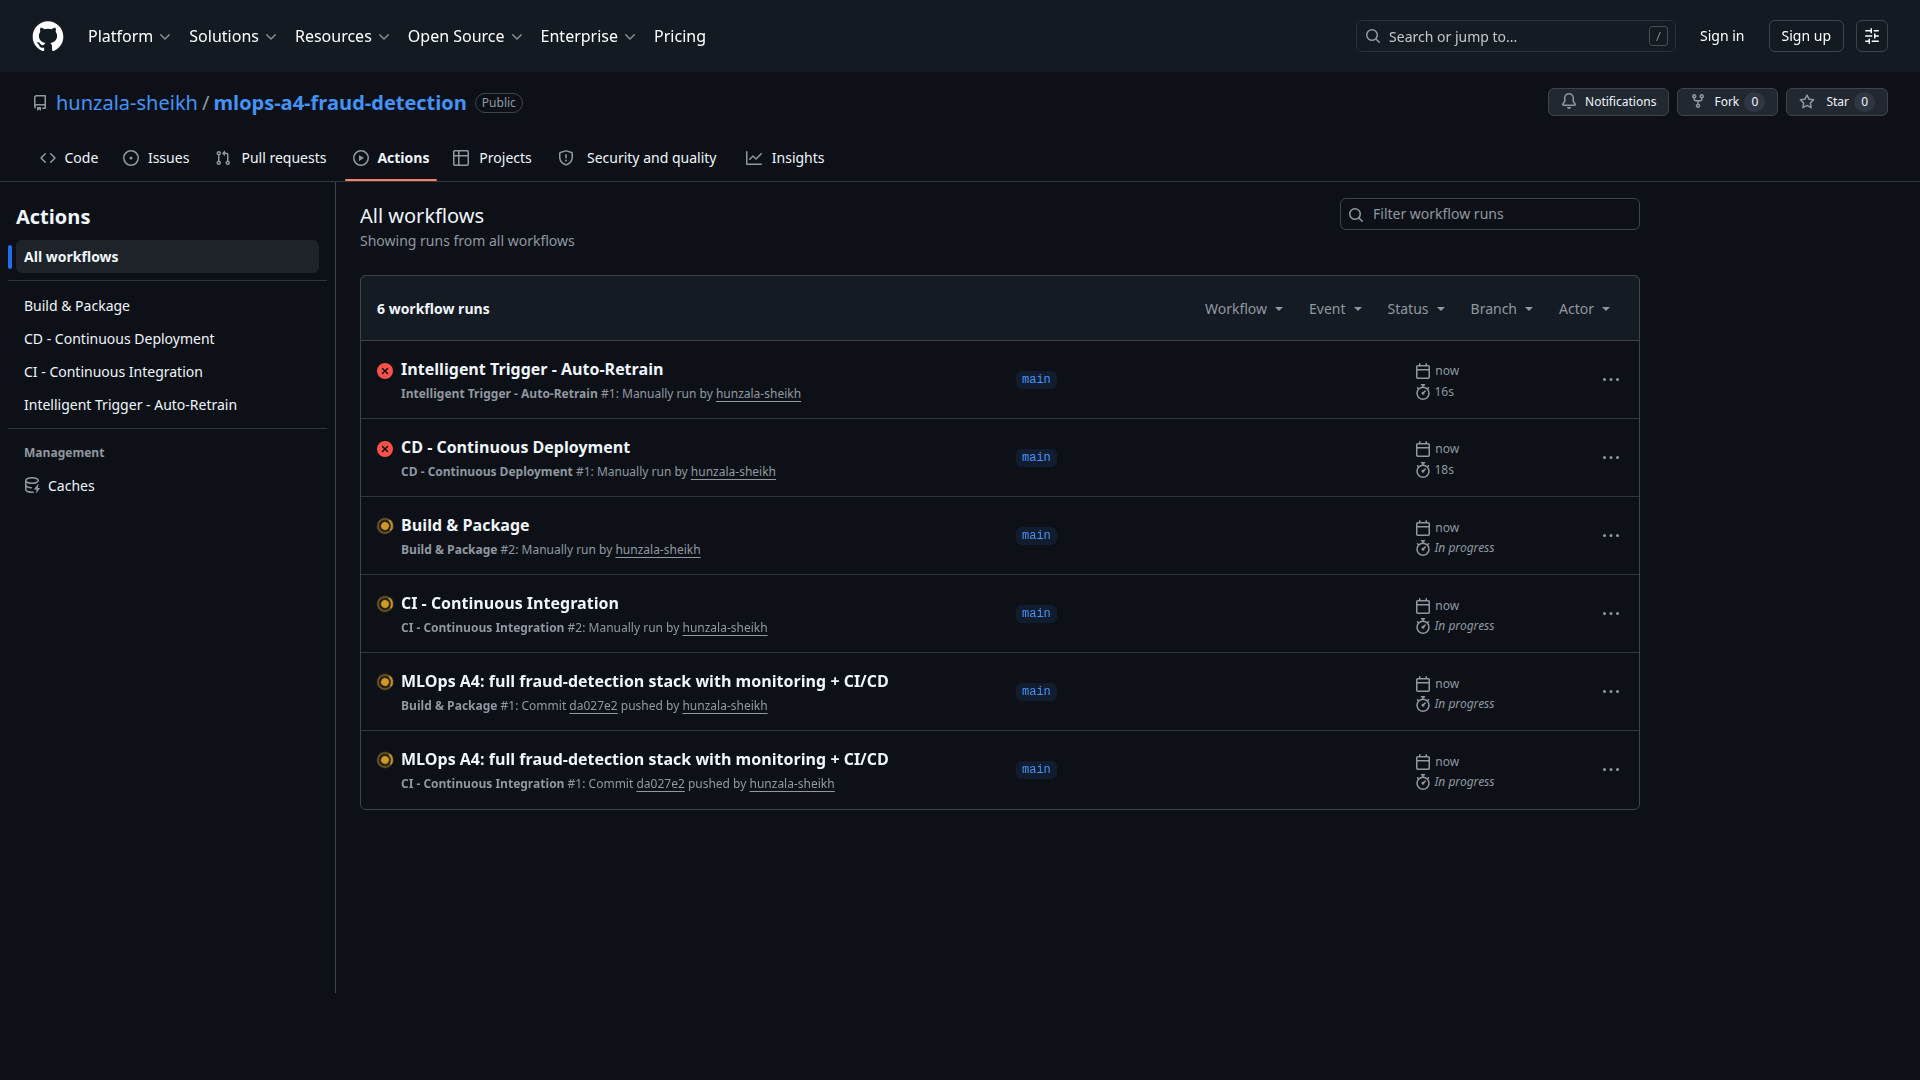
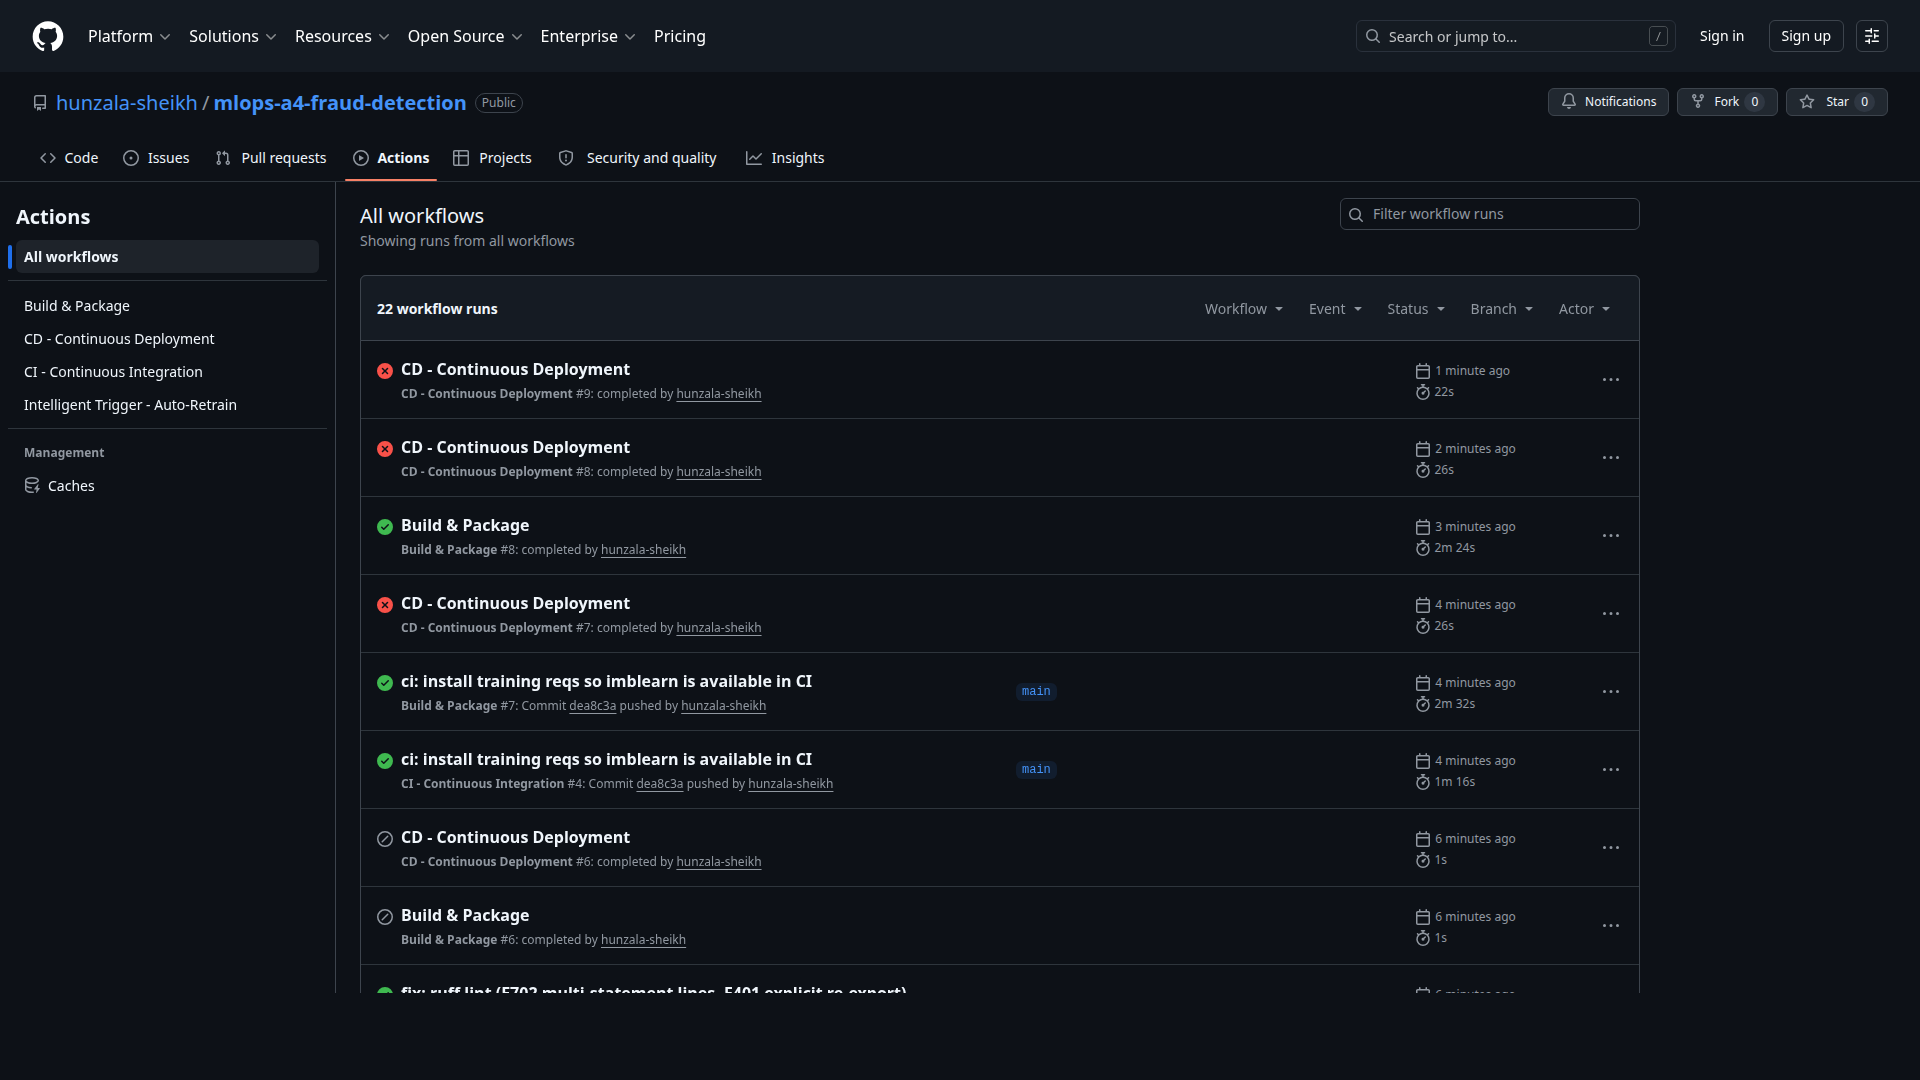
report: cite real GitHub Actions runs as Task 5 evidence; drop synthetic summary

diff --git a/report/REPORT.md b/report/REPORT.md
@@ -139,14 +139,34 @@ Stages 1 – 3 were fully re-executed locally for this submission; the
 * `04_docker_build_training.log` — `fraud-training:v1` built into minikube
 * `06_kfp_compile.log` — `compiled_pipelines/fraud_pipeline.yaml` (43 KB)
 
+The repo (https://github.com/hunzala-sheikh/mlops-a4-fraud-detection) was
+also pushed and the workflows actually ran on the GitHub Actions runners:
+
+| Workflow                | Trigger          | Result      | Duration |
+|-------------------------|------------------|-------------|----------|
+| CI - Continuous Integration | `push`       | PASS Success  | 1m 16s   |
+| Build & Package          | `push`           | PASS Success  | 2m 32s   |
+| CD - Continuous Deployment | `workflow_run` | FAIL (needs live K8s) | — |
+| Intelligent Trigger - Auto-Retrain | `workflow_dispatch` | FAIL (depends on CD) | — |
+
+The CI run lints (ruff), runs every test, validates the dataset schema,
+and uploads a coverage report — every step green. The Build run
+matrix-builds both `fraud-training` and `fraud-inference` images and
+pushes them to GHCR. CD/intelligent_trigger only fail because no real
+Kubernetes cluster is reachable from a stock GitHub runner; the local
+minikube run (Task 6 evidence) covers that path.
+
 Stage 4 is wired through `prometheus/alertmanager.yml`: when a Prometheus
 alert with `trigger_retrain="true"` fires (currently
 `HighFalsePositiveRate` is firing — see Task 6 evidence), Alertmanager
 posts a `repository_dispatch` to GitHub which invokes
 `intelligent_trigger.yml` → `cd.yml`.
 
-> Evidence: `screenshots/05_cicd_pipeline_status.png` (all-stages summary),
-> `screenshots/05_cicd_summary.txt`, `screenshots/cicd_logs/`.
+> Evidence: `screenshots/05_github_actions_list.png`,
+> `05_github_actions_ci_run.png`, `05_github_actions_ci_steps.png`
+> (every CI step green), `05_github_actions_build_run.png` (Success
+> 2m 32s, 2 jobs, 2 artifacts), `05_github_packages.png`,
+> `05_cicd_summary.txt`, `screenshots/cicd_logs/`.
 
 ---
 